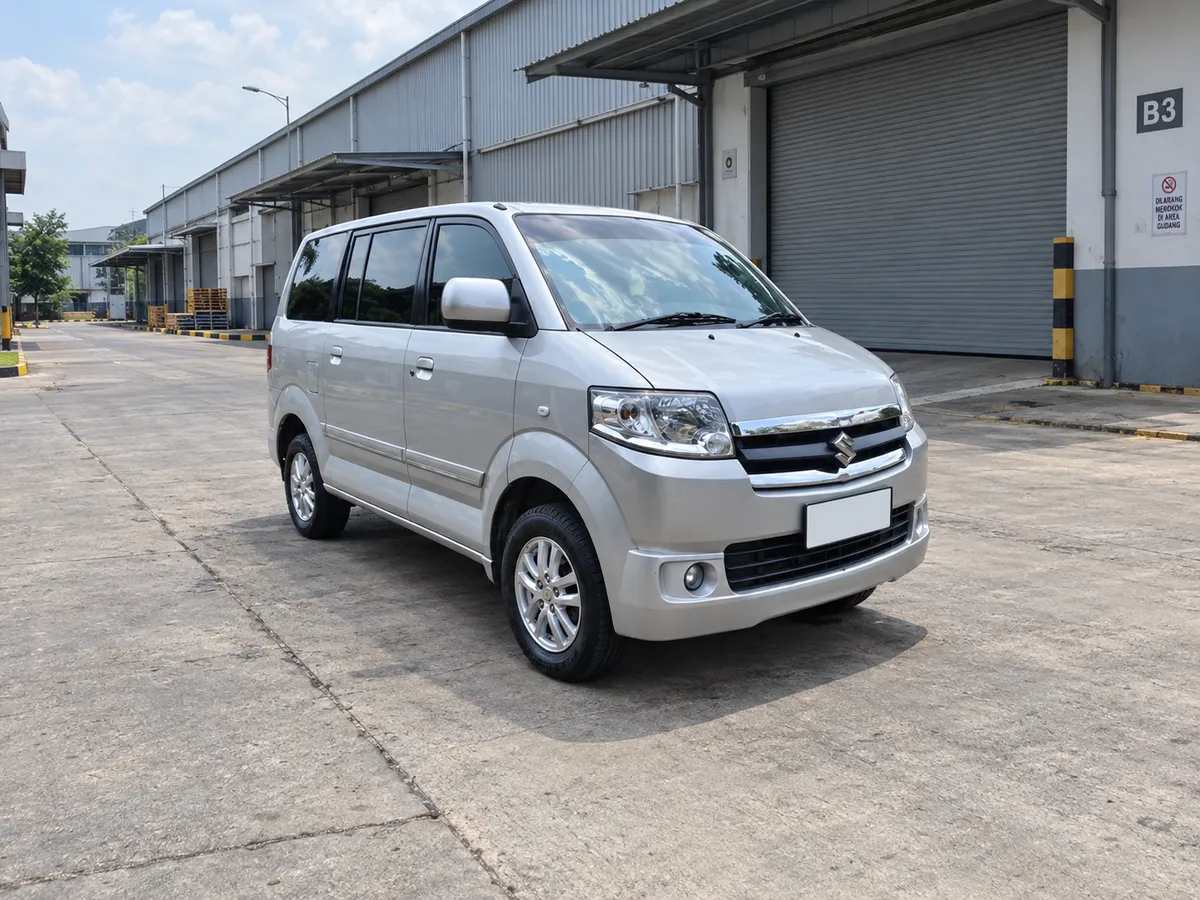
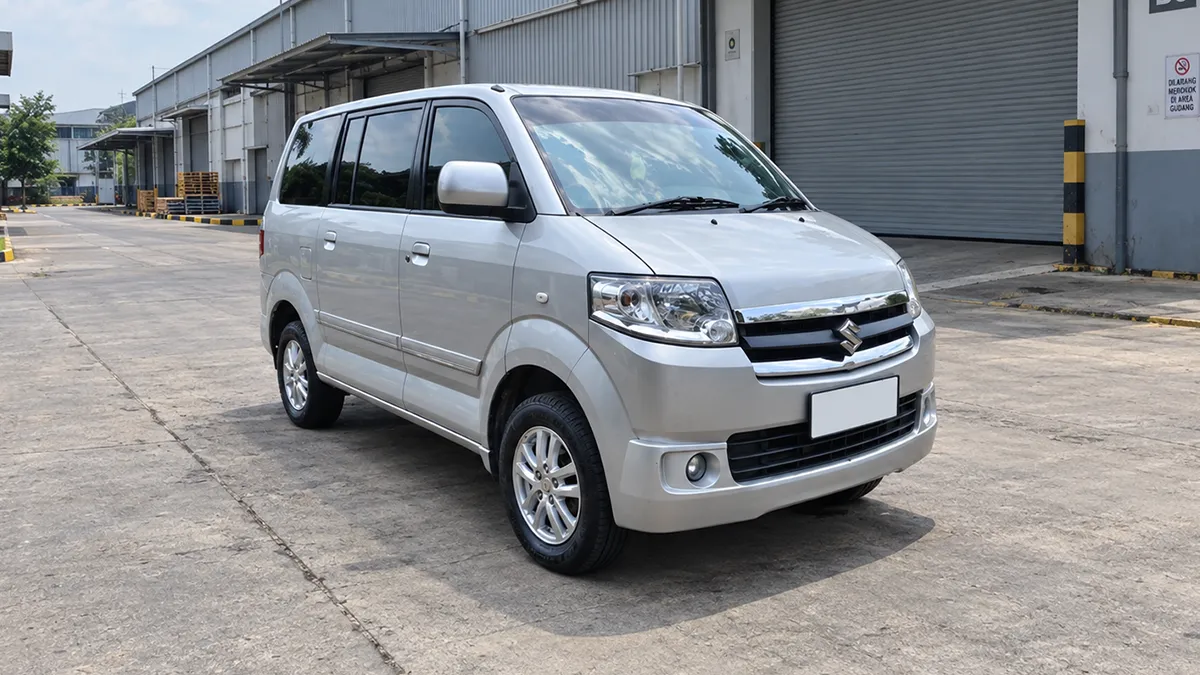
Add files via upload

diff --git a/tests-ui.js b/tests-ui.js
@@ -77,14 +77,16 @@ const msgOf = (w) => decodeURIComponent((w.__o[0] || "").split("text=")[1] || ""
   fillDv(w, "small", "w5"); await go(w);
   ok("delivery: 10 km small parcel = Rp50.000", !$("dv-result").hidden && /Rp50\.000/.test($("dv-estimate").textContent) && !/Minimum fare applied/.test($("dv-estimate").textContent));
   d.querySelector('input[name=size][value=medium]').checked = true; $("dvForm").dispatchEvent(new w.Event("input", { bubbles: true }));
-  ok("delivery: switching to medium adds Rp15.000 surcharge (Rp65.000)", /Rp65\.000/.test($("dv-estimate").textContent));
+  ok("delivery: medium box has no surcharge (stays Rp50.000)", /Rp50\.000/.test($("dv-estimate").textContent) && /None/.test($("dv-estimate").textContent));
+  d.querySelector('input[name=size][value=large]').checked = true; $("dvForm").dispatchEvent(new w.Event("input", { bubbles: true }));
+  ok("delivery: switching to large adds Rp25.000 surcharge (Rp75.000)", /Rp75\.000/.test($("dv-estimate").textContent));
   d.querySelector('input[value="round-trip"]').checked = true; $("dvForm").dispatchEvent(new w.Event("input", { bubbles: true }));
-  ok("delivery: round trip 10 km medium = Rp115.000", /Rp115\.000/.test($("dv-estimate").textContent));
+  ok("delivery: round trip 10 km large = Rp125.000", /Rp125\.000/.test($("dv-estimate").textContent));
   $("dv-send").click(); const dm = msgOf(w);
-  ok("delivery: WhatsApp message has sender, recipient, size, drop-off, fare", (w.__o[0] || "").startsWith("https://wa.me/6281573011713") && /Pengirim: Budi/.test(dm) && /Penerima: Sari/.test(dm) && /Ukuran: Medium box/.test(dm) && /Drop-off: Bekasi/.test(dm) && /Rp115\.000/.test(dm));
+  ok("delivery: WhatsApp message has sender, recipient, size, drop-off, fare", (w.__o[0] || "").startsWith("https://wa.me/6281573011713") && /Pengirim: Budi/.test(dm) && /Penerima: Sari/.test(dm) && /Ukuran: Large item/.test(dm) && /Drop-off: Bekasi/.test(dm) && /Rp125\.000/.test(dm));
   w.close();
-  w = await loadDv(3); d = w.document; $ = (i) => d.getElementById(i); fillDv(w, "medium", "w5"); await go(w);
-  ok("delivery: 3 km uses minimum fare, medium = Rp55.000", /Minimum fare applied/.test($("dv-estimate").textContent) && /Rp55\.000/.test($("dv-estimate").textContent));
+  w = await loadDv(3); d = w.document; $ = (i) => d.getElementById(i); fillDv(w, "large", "w30"); await go(w);
+  ok("delivery: 3 km uses minimum fare, large = Rp65.000", /Minimum fare applied/.test($("dv-estimate").textContent) && /Rp65\.000/.test($("dv-estimate").textContent));
   w.close();
   w = await loadDv(10); d = w.document; $ = (i) => d.getElementById(i); fillDv(w, "oversize", "w5"); const calls2 = []; const orig = w.fetch; w.fetch = async (u) => { calls2.push(u); return orig(u); }; await go(w);
   ok("delivery: oversize = custom quote, no routing calls, estimate hidden", !$("dv-result").hidden && $("dv-estPanel").hidden && calls2.length === 0 && /custom quote/.test($("dv-note").textContent));

diff --git a/index.html b/index.html
@@ -55,7 +55,7 @@
 <div class="vehicles">
   <figure class="vcard"><img src="assets/car.webp" width="1200" height="675" loading="lazy" alt="White Toyota Calya used by Privaro on a Jakarta main road">
     <figcaption><span class="tag">Rides &amp; packages</span><b>Toyota Calya (New) 2026</b><span>7 seater &middot; Comfortable &middot; Clean</span></figcaption></figure>
-  <figure class="vcard"><img src="assets/delivery-car.webp" width="1200" height="900" loading="lazy" alt="Silver Suzuki APV used by Privaro for delivery">
+  <figure class="vcard"><img src="assets/delivery-car.webp" width="1200" height="675" loading="lazy" alt="Silver Suzuki APV used by Privaro for delivery">
     <figcaption><span class="tag">Delivery</span><b>Suzuki APV</b><span>Our vehicle for delivering documents, parcels and goods.</span></figcaption></figure>
 </div></section>
 
@@ -65,7 +65,7 @@
 <section id="faq" class="wrap sec narrow"><h2>Service notes</h2>
 <details><summary>Can you deliver documents and parcels?</summary><p>Yes. Our Delivery service carries documents, parcels and goods that fit in the car, from pickup to drop-off. Larger or heavier items are quoted via WhatsApp.</p></details>
 <details><summary>What items can't be delivered?</summary><p>Illegal goods, drugs and weapons; explosives, fuel and other flammable or hazardous materials; and anything the driver cannot legally carry. Other items may be declined by the driver.</p></details>
-<details><summary>How is delivery priced?</summary><p>By the estimated distance with a minimum fare, plus a small surcharge for medium and large items. Toll and parking are not included.</p></details>
+<details><summary>How is delivery priced?</summary><p>By the estimated distance with a minimum fare, plus a surcharge for larger items. Toll and parking are not included.</p></details>
 <details><summary>Can I book an airport transfer?</summary><p>Yes. Airport pickup and drop-off are supported.</p></details>
 <details><summary>What is the difference between Book Your Ride and a Package?</summary><p>Book Your Ride is priced by the estimated distance, one way or round trip, with waiting time charged separately. A Package is a fixed price for 6, 12 or 24 hours with included kilometers.</p></details>
 <details><summary>Can I book a round trip?</summary><p>Yes.</p></details>

diff --git a/tests-delivery.js b/tests-delivery.js
@@ -6,11 +6,11 @@ t("10 km, small = Rp50.000 (above minimum)", F(10, "one-way", "small").estimated
 t("3 km, small = minimum Rp40.000", [F(3, "one-way", "small").estimatedTotal, F(3, "one-way", "small").minApplied], [40000, true]);
 t("10 km, no minimum flag", F(10, "one-way", "small").minApplied, false);
 t("3 km round trip (6 km = 30.000) -> minimum", F(3, "round-trip", "document").estimatedTotal, 40000);
-t("10 km, medium = 50.000 + 15.000", F(10, "one-way", "medium").estimatedTotal, 65000);
-t("3 km, medium = minimum 40.000 + 15.000", F(3, "one-way", "medium").estimatedTotal, 55000);
-t("25 km, large = 125.000 + 35.000", F(25, "one-way", "large").estimatedTotal, 160000);
-t("25 km round trip, large = 250.000 + 35.000", F(25, "round-trip", "large").estimatedTotal, 285000);
-t("document and small have no surcharge", [F(10, "one-way", "document").surcharge, F(10, "one-way", "small").surcharge], [0, 0]);
+t("10 km, medium = 50.000 (no surcharge)", F(10, "one-way", "medium").estimatedTotal, 50000);
+t("3 km, medium = minimum 40.000 (no surcharge)", F(3, "one-way", "medium").estimatedTotal, 40000);
+t("25 km, large = 125.000 + 25.000", F(25, "one-way", "large").estimatedTotal, 150000);
+t("25 km round trip, large = 250.000 + 25.000", F(25, "round-trip", "large").estimatedTotal, 275000);
+t("document, small and medium have no surcharge; large Rp25.000", ["document", "small", "medium", "large"].map((z) => F(10, "one-way", z).surcharge), [0, 0, 0, 25000]);
 t("fractional distance rounds the cost: 8.4 km", F(8.4, "one-way", "small").distanceCost, 42000);
 t("oversize needs a quote", P.needsQuote("oversize", "w1"), true);
 t("over 30 kg needs a quote", P.needsQuote("small", "wmax"), true);

diff --git a/delivery.html b/delivery.html
@@ -24,7 +24,7 @@
   <nav class="tabs" aria-label="Services"><a href="book.html">Ride</a><a href="package.html">Package</a><a href="delivery.html" aria-current="page">Delivery</a></nav>
   <h1 class="ph">Delivery</h1>
   <p class="muted">Send documents, parcels and goods from pickup to drop-off. Tell us what you are sending and where. We will show an estimated fare, then you confirm via WhatsApp.</p>
-  <div class="vstrip"><img src="assets/delivery-car.webp" width="1200" height="900" loading="lazy" alt="Silver Suzuki APV used by Privaro for delivery"><div><b>Suzuki APV</b><span>Your delivery vehicle. Choose the item size below; bigger items are quoted via WhatsApp.</span></div></div>
+  <div class="vstrip"><img src="assets/delivery-car.webp" width="1200" height="675" loading="lazy" alt="Silver Suzuki APV used by Privaro for delivery"><div><b>Suzuki APV</b><span>Your delivery vehicle. Choose the item size below; bigger items are quoted via WhatsApp.</span></div></div>
   <p class="callout"><b>Toll &amp; parking are not included</b> in the estimated fare. They are charged on top if applicable, and the final fare is confirmed by the driver.</p>
   <form id="dvForm" novalidate>
     <fieldset><legend>What are you sending?</legend>

diff --git a/js/delivery-pricing.js b/js/delivery-pricing.js
@@ -7,8 +7,8 @@ const DELIVERY = {
   sizes: [
     { id: "document", name: "Document / envelope", hint: "Up to A4 size, about 1 kg", surcharge: 0 },
     { id: "small", name: "Small parcel", hint: "About a shoebox, up to 5 kg", surcharge: 0 },
-    { id: "medium", name: "Medium box", hint: "Up to about 60 x 45 x 45 cm, 15 kg", surcharge: 15000 },
-    { id: "large", name: "Large item", hint: "Up to about 100 x 60 x 60 cm, 30 kg", surcharge: 35000 },
+    { id: "medium", name: "Medium box", hint: "Up to about 60 x 45 x 45 cm, 15 kg", surcharge: 0 },
+    { id: "large", name: "Large item", hint: "Up to about 100 x 60 x 60 cm, 30 kg", surcharge: 25000 },
     { id: "oversize", name: "Bigger than Large", hint: "Needs a custom quote", surcharge: 0, quote: true }
   ],
   weights: [

diff --git a/js/delivery.js b/js/delivery.js
@@ -125,5 +125,6 @@
     window.open(WhatsAppService.buildUrl(message(s, quote ? null : fareOf(s), quote)), "_blank", "noopener");
   });
   $("dl-date").min = Validation.todayISO(); $("dl-notes").maxLength = CONFIG.booking.maxNotesLength;
-  $("dl-hint").textContent = `Minimum fare ${rp(DELIVERY.minFare)}. Medium and large items have a small surcharge.`;
+  const sur = DELIVERY.sizes.filter((z) => z.surcharge > 0).map((z) => `${z.name} (+${rp(z.surcharge)})`);
+  $("dl-hint").textContent = `Minimum fare ${rp(DELIVERY.minFare)}.` + (sur.length ? ` Surcharge: ${sur.join(", ")}.` : "");
 })();

diff --git a/README.md b/README.md
@@ -22,5 +22,5 @@ Google Routes API (primary) lalu OSRM (fallback), dengan objek hasil yang seraga
 ## Delivery service
 - Page: `delivery.html` (UI in `js/delivery.js`). Prices, size classes, weight options and the banned-items list live in `js/delivery-pricing.js` (config.js is not touched).
 - Formula: `max(minFare, baseFare + distance x pricePerKm) + size surcharge`. Round trip doubles the distance. Items marked "bigger than Large" or over 30 kg get a custom quote via WhatsApp (no route call).
-- Current values are the owner's confirmed starting values: Rp5.000/km, minimum fare Rp40.000, surcharges Rp0 / Rp0 / Rp15.000 / Rp35.000. Size limits and the banned list are provisional.
+- Current values are the owner's confirmed starting values: Rp5.000/km, minimum fare Rp40.000, size surcharges Document Rp0, Small Rp0, Medium Rp0, Large Rp25.000. Size limits and the banned list are provisional.
 - Tests: `node tests-delivery.js` (formula), `node tests-ui.js` (needs jsdom).
